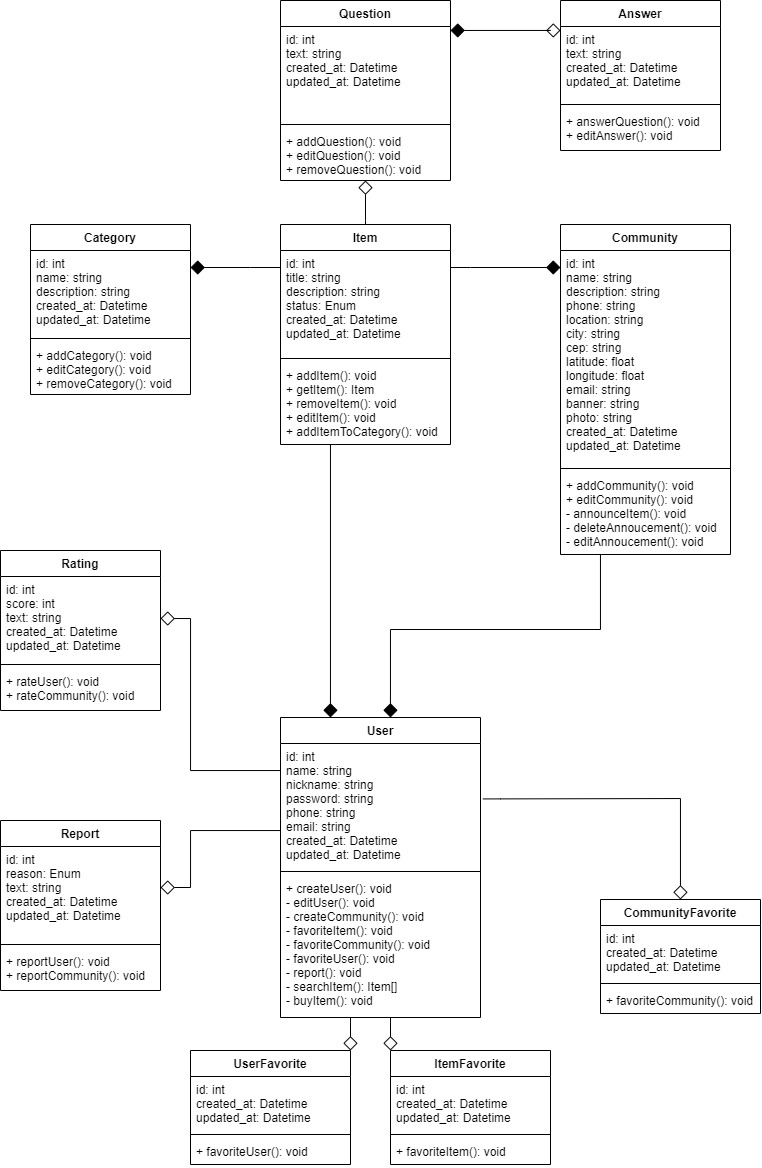
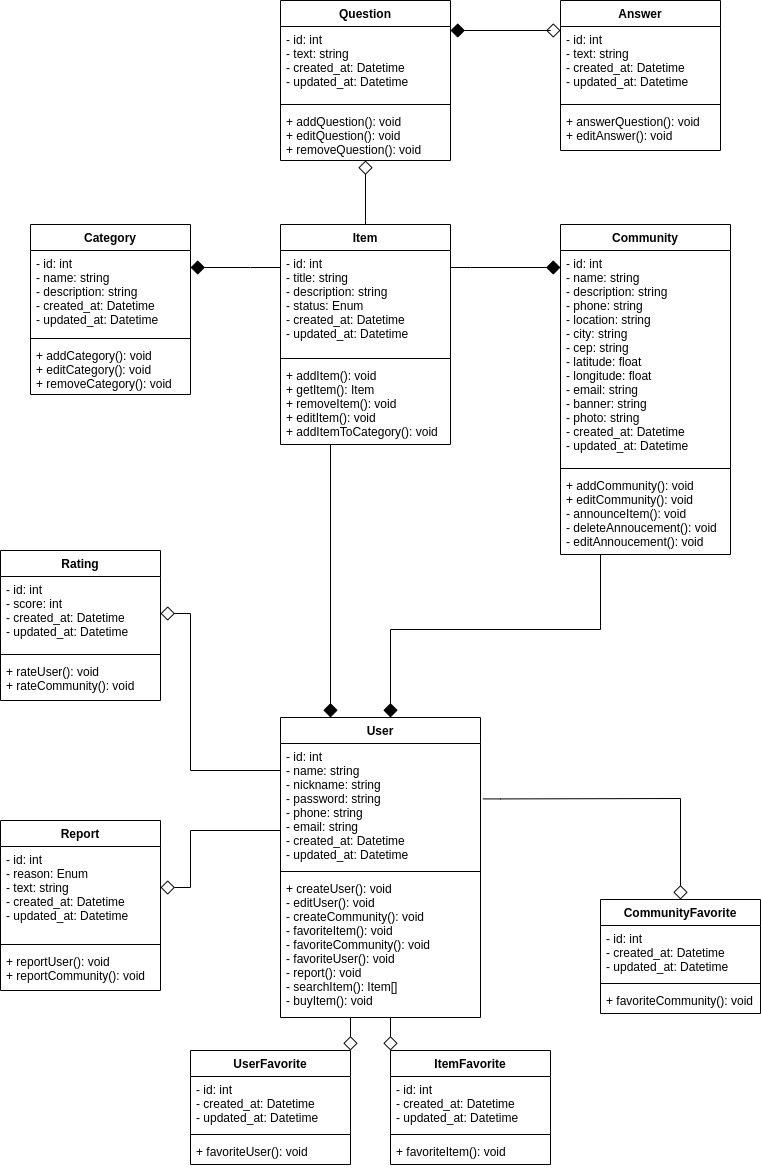
feat: add content of classes diagram

diff --git a/docs/stylesheets/styles.css b/docs/stylesheets/styles.css
@@ -57,3 +57,8 @@ img[alt="subtitle state diagram"] {
   width: 15rem;
   object-fit: cover;
 }
+
+img[alt="chat"] {
+  width: 30rem;
+  object-fit: cover;
+}

diff --git a/docs/content/modelagem/diagrama_de_classes.md b/docs/content/modelagem/diagrama_de_classes.md
@@ -8,18 +8,58 @@
 
 ## 2. Introdução
 
+O Diagrama de Classes é o diagrama mais utilizado da UML, e de acordo com Murta (p.2), este diagrama representa os tipos (classes) de objetos de um sistema, representando as propriedades desses tipos, as funcionalidades providas por esses tipos e os relacionamentos entre esses tipos. "As classes são os blocos de construção mais importantes de qualquer sistema orientado a objetos. Uma classe é uma descrição de um conjunto de objetos[...]" (JÚNIOR, 2020, p.3).
+
+O Diagrama de Classes pode ser mapeado diretamente para uma linguagem de programação orientada a objetos, e com isso, pode-se dizer que este diagrama é a representação visual do código do sistema, colaborando muito na transição dos requisitos para o código de fato (MURTA, p.2).
 
 ## 3. Metodologia
 
-Para a construção do diagrama, foi utilizada a plataforma Draw.io, que permite a fácil criação de elementos UML e permite a edição simultânea de várias pessoas. Conforme o projeto for evoluíndo e o grupo sentir a necessidade de criar outras versões deste diagrama, os resultados irão sendo publicados neste documento.
+Para a construção do diagrama, foi utilizada a plataforma [Draw.io](https://app.diagrams.net/), que permite a fácil criação de elementos UML e a edição simultânea entre várias pessoas. As classes representadas no diagrama são divididas em três compartimentos, sendo eles:
+
+- Nome: contém apenas o nome da classe modelada;
+- Atributos: contém os atributos que a classe possui em sua estrutura interna;
+- Operações: contém os métodos de manipulação de dados e comunicação de uma classe com outras do sistema.
+
+![caption](../../assets/classes_diagrams/class.png)
+<figcaption>Imagem 1: Representação gráfica de uma classe.</figcaption>
+<figcaption>Fonte: JÚNIOR (2020, p.6).</figcaption>
+
+O diagrama também representa o encapsulamento dos atributos e das operações da classe. Este encapsulamento pode ser do tipo público, privado, protegido ou de pacote, cada um com seu respectivo símbolo que pode ser visto na imagem abaixo.
+
+![caption](../../assets/classes_diagrams/encapsulamento.png)
+<figcaption>Imagem 2: Representação do encapsulamento no Diagrama de Classes.</figcaption>
+<figcaption>Fonte: JÚNIOR (2020, p.10).</figcaption>
+
+Além disso, os tipos de relacionamentos/associações entre as classes também estão presentes no diagrama, podendo ser uma associação simples, uma herança, uma realização, uma dependência, uma agregação ou uma composição, dependendo do símbolo utilizado.
+
+![caption](../../assets/classes_diagrams/relacionamentos.png)
+<figcaption>Imagem 3: Representação dos relacionamentos no Diagrama de Classes.</figcaption>
+<figcaption>Fonte: JÚNIOR (2020, p.7).</figcaption>
+
+No contexto do projeto Garimpei, a abstração das classes e relacionamentos necessários para o produto foi feita com base nos requisitos já elicitados anteriomente, e também a partir da discussão entre os membros do grupo a respeito de como o sistema deve funcionar, como pode ser visto na imagem abaixo.
+
+![chat](../../assets/classes_diagrams/discussao.png)
+<figcaption>Imagem 4: Discussão dos membros do grupo sobre os requisitos do projeto Garimpei.</figcaption>
+
 
 ## 4. Resultados
 
-### 4.1 Diagrama de classes V1
+Conforme o projeto for evoluindo e o grupo sentir a necessidade de criar outras versões deste diagrama, os resultados irão sendo publicados neste documento.
+
+### 4.1 Diagrama de Classes V1
 
 ![Diagrama de classes V1](../../assets/classes_diagrams/classes_diagram_v1.jpg)
-<figcaption>Imagem 1: Diagrama de classes V1.</figcaption>
+<figcaption>Imagem 5: Primeira versão do Diagrama de Classes do projeto Garimpei.</figcaption>
 <figcaption>Autores: Mateus Gomes e Matheus Afonso</figcaption>
 
-## 5. Referência bibliográfica
+## 5. Referências
 
+> [1] DevMedia. **Principais conceitos da Programação Orientada a Objetos**. Disponível em: <https://www.devmedia.com.br/principais-conceitos-da-programacao-orientada-a-objetos/32285>. Acesso em : 20/02/2022.
+
+> [2] DevMedia. **Orientações básicas na elaboração de um diagrama de classes**. Disponível em: <https://www.devmedia.com.br/orientacoes-basicas-na-elaboracao-de-um-diagrama-de-classes/37224>. Acesso em: 20/02/2022.
+
+> [3] Animalesco. **Diagrama de Classes**. Disponível em: <https://unbarqdsw2021-1.github.io/2021.1_G01_Animalesco_docs/#/pages/diagrama-classes>. Acesso em: 20/02/2022.
+
+> [4] MURTA, Leonardo Gresta Paulino. **Diagrama de Classes**.
+
+> [5] JÚNIOR, Edwar Saliba. **Diagrama de Classes**. 2020.
